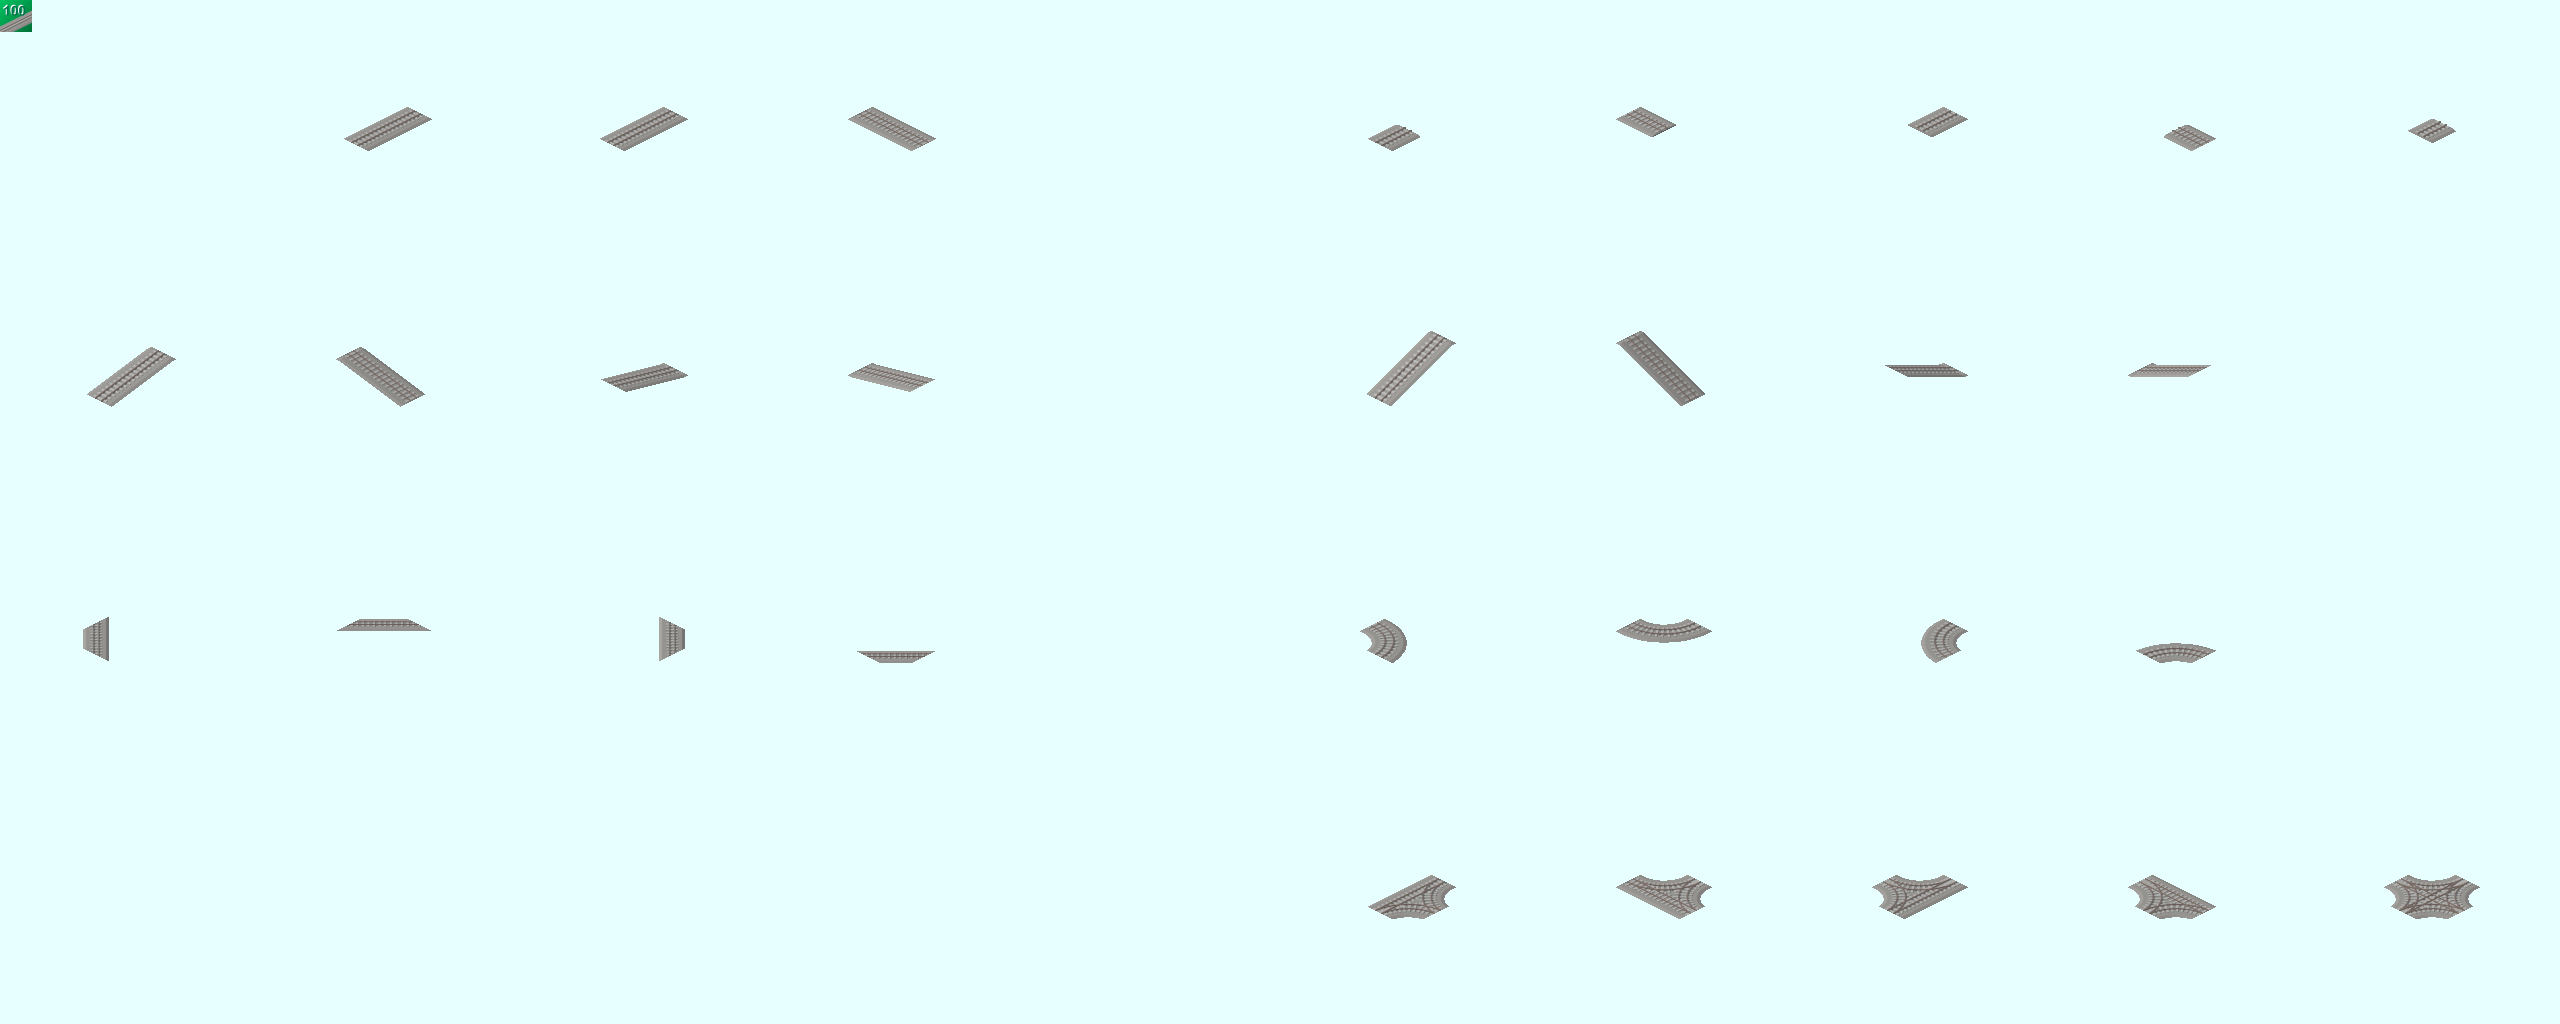
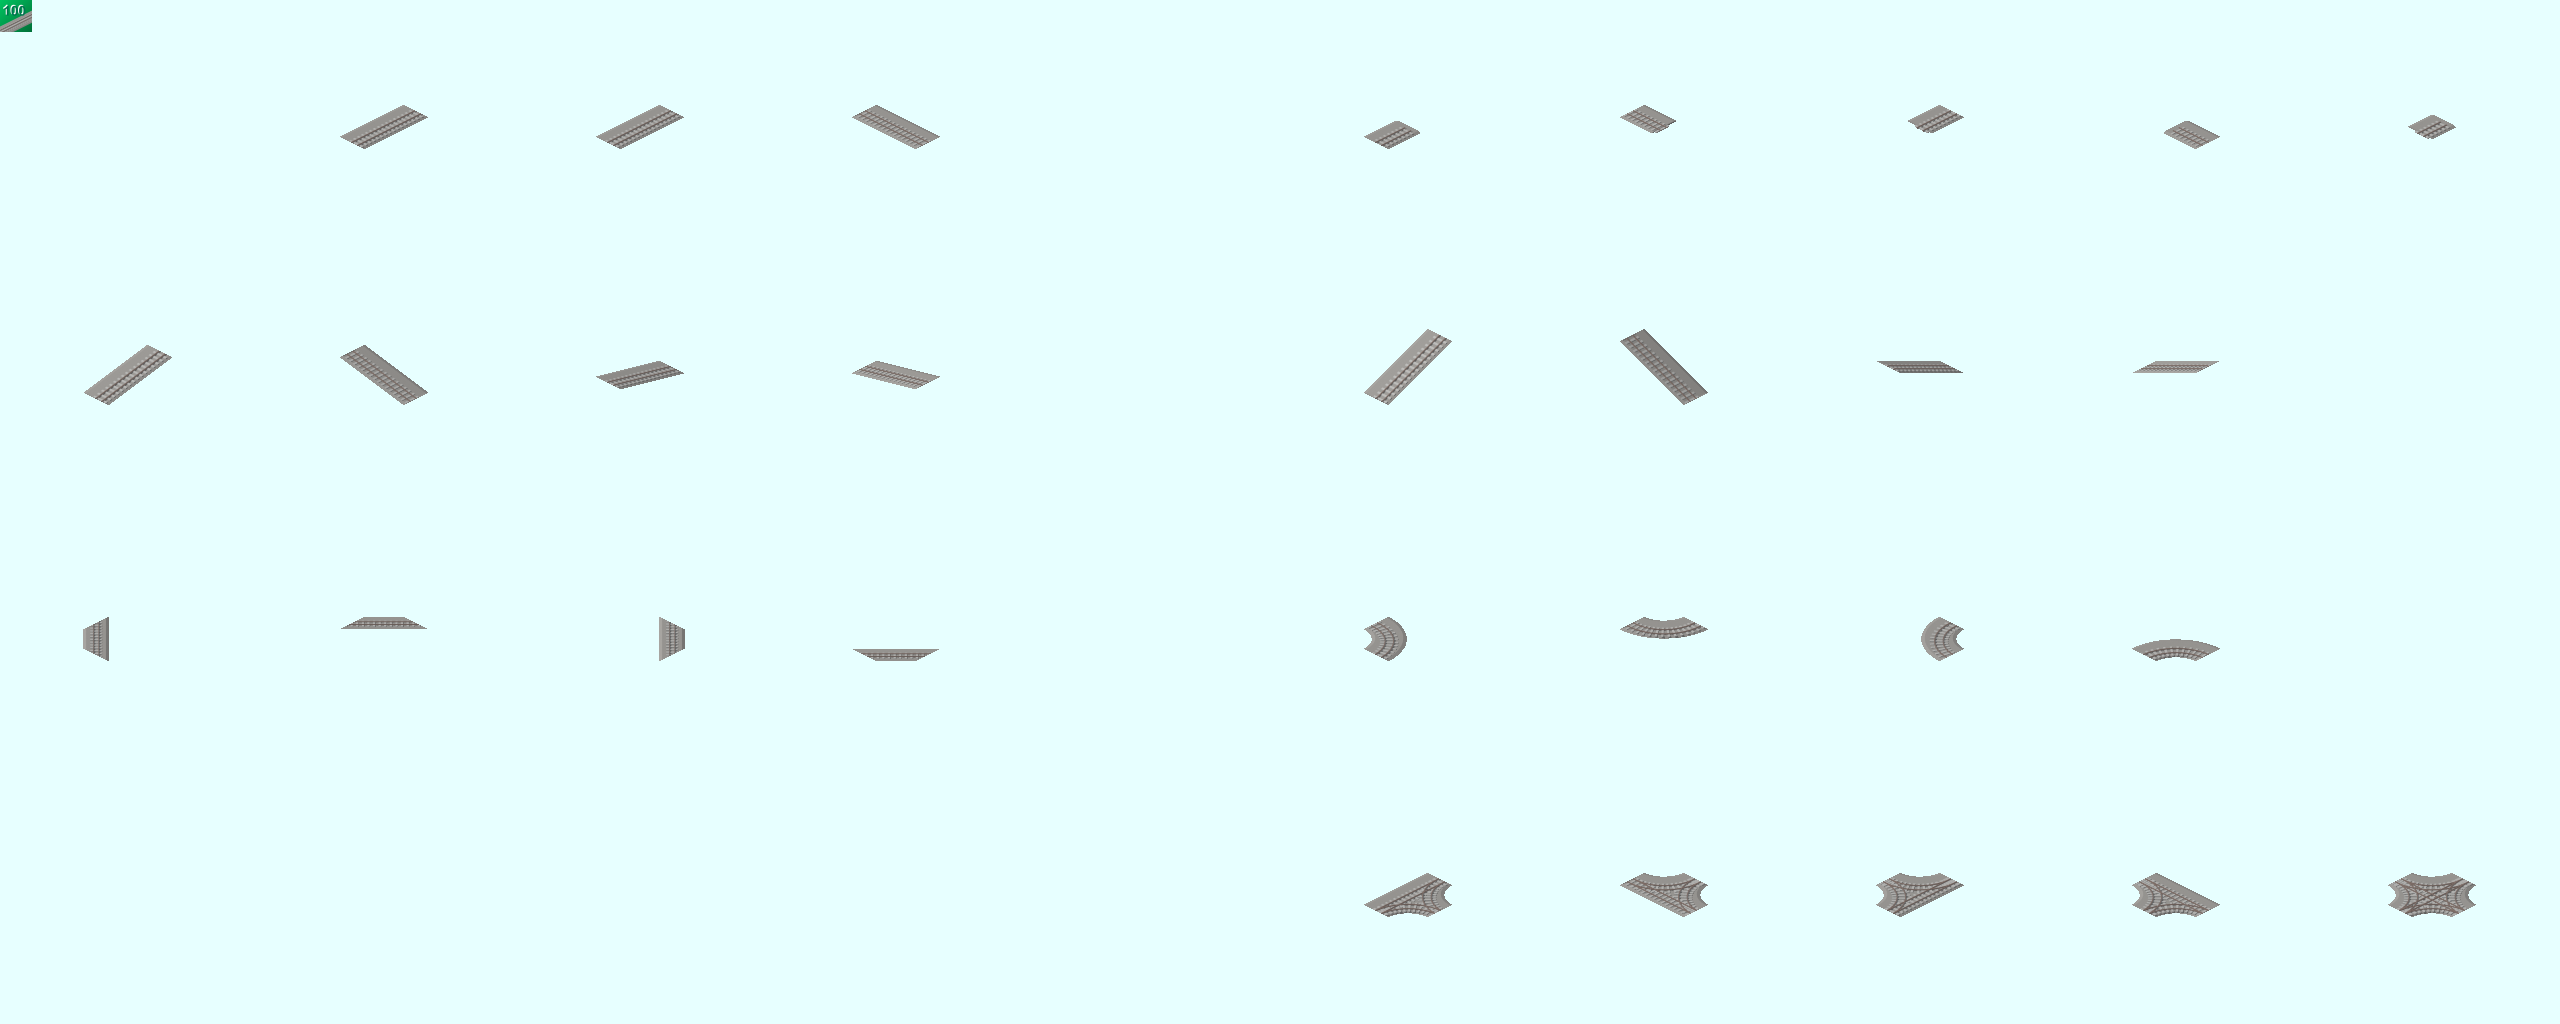
blender-poc: keep new-position track ballast on the ground, drop only rails
Rail_100 and iss keep the ballast at ground level and only the rails sit
4px lower; vertical diagonals stay centred. Dropping the whole track left
a ballast step at vertical diagonal joints. Render the ballast at the old
position and move only rails and sleepers 4px down (2px on horizontal
diagonals).

diff --git a/addons/blender-poc/blender/render.py b/addons/blender-poc/blender/render.py
@@ -281,9 +281,10 @@ DIAG_RAIL = 2 / math.sqrt(10)
 DIAG_BALLAST = 1 / math.sqrt(2)
 
 
-def build_track(paths, slope=None, clip=True, rail_scale=1.0, ballast_scale=1.0):
+def build_track(paths, slope=None, clip=True, rail_scale=1.0, ballast_scale=1.0, rail_drop=0):
     """paths の線路を作り、タイルの外を切り落とし、slope(x,y)->z で傾ける。
-    rail_scale / ballast_scale はレール・まくらぎ／道床の横幅の倍率。"""
+    rail_scale / ballast_scale はレール・まくらぎ／道床の横幅の倍率。
+    rail_drop はレールとまくらぎだけを画面で何 px 下に描くか（道床は動かさない）。"""
     m_ballast = material("ballast", (0.42, 0.40, 0.37))
     m_sleeper = material("sleeper", (0.62, 0.61, 0.58))
     m_rail = material("rail", (0.50, 0.36, 0.30), rough=0.35, metal=0.6)
@@ -303,7 +304,17 @@ def build_track(paths, slope=None, clip=True, rail_scale=1.0, ballast_scale=1.0)
         obs.append(mesh_object(f"railL{i}", *sweep(path, rail_l), m_rail))
         obs.append(mesh_object(f"railR{i}", *sweep(path, rail_r), m_rail))
 
+    # 画面で rail_drop px 下 = 地面の上で手前（カメラ側）へ水平に動かす。高さは変えない（変えると道床に埋もれる）
+    cam = bpy.context.scene.camera
+    rot = cam.rotation_euler.to_matrix()  # matrix_world は作った直後だと更新されていない
+    up, fwd = rot @ Vector((0, 1, 0)), rot @ Vector((0, 0, -1))
+    toward = -Vector((fwd.x, fwd.y, 0)).normalized()
+    drop = toward * (rail_drop * cam.data.ortho_scale / CELL) / -toward.dot(up)
+    # 動かすのは坂を当てて切り抜く前（坂ではレールが面に沿う。切り抜きの余白より動く量が大きいので後だと端が欠ける）
     for ob in obs:
+        if rail_drop and not ob.name.startswith("ballast"):
+            for v in ob.data.vertices:
+                v.co += drop
         if slope:
             apply_slope(ob, slope)
         if clip:
@@ -895,13 +906,17 @@ def make_sheet(cells, rows, cols, out):
 # ---------------------------------------------------------------- 各アドオン
 
 # 線路の描画位置。形状は同じで、画面上の上下位置だけを整数 px ずらす（正: 下へ）
-#   new: 新描画位置（道床が低い。今の pak128・iss）
-#   old: 旧描画位置（道床が高い。古い pak128・SIS）
+#   new: 新描画位置（レールが低い。今の pak128・iss）
+#   old: 旧描画位置（レールが高い。古い pak128・SIS）
 # iss と SIS を比べると、どの方位でもレールが画面上で 4〜4.5px 違うだけだった
 TRACK_PROFILES = {
     "new": {"sheet": "track", "dy": 3},
     "old": {"sheet": "track_old", "dy": -1},
 }
+# 道床は両方とも旧の位置（地面の菱形と同じ）に描き、新はレールとまくらぎだけを下げる。
+# pak128 標準の Rail_100 も iss も、レールは新の位置だが道床は地面の位置にあり、斜めの絵もタイルの中心のまま。
+# 道床まで下げると、画面で縦向きの斜め（sw・ne）は辺で直線と同じ点を通る位置が無く、道床の角に段が出た
+BALLAST_DY = -1
 
 
 def track_sheet(profile="new"):
@@ -950,18 +965,19 @@ def track_sheet(profile="new"):
     # dat オフセット -64,-32 と対応。持ち分は地面の菱形のまま（新描画位置は絵が 4px 下だが、持ち分を 4 行下げると、
     # 手前のタイルへはみ出した 2〜4 行目を手前の地面が消し、どのつなぎ目にも草の線が出た）
     cy = GROUND_CY
-    set_anchor(128 + prof["dy"])
+    set_anchor(128 + BALLAST_DY)
+    drop = prof["dy"] - BALLAST_DY
     cells = {}
     for pos, (name, paths, slope) in jobs.items():
         clear_models()
-        if name.startswith("diag_"):
-            build_track(paths, slope, rail_scale=DIAG_RAIL, ballast_scale=DIAG_BALLAST)
-        else:
-            build_track(paths, slope)
-        # 画面で横向きの斜め（nw・se）は、絵のずれ（地面から 128+dy-GROUND_CY px）の半分だけ下げる。
+        # 画面で横向きの斜め（nw・se）のレールは、直線のレールの下げ幅の半分だけ下げる。
         # 絵を下げることはマップ上で南東へずらすことと同じで、直線は辺を横切る点が辺に沿ってずれる。
-        # 横向きの斜めは半分だけずらすと、両端で直線と同じ点を通る（縦向きの斜めにはそういう位置が無い）
-        set_anchor(GROUND_CY + (128 + prof["dy"] - GROUND_CY) // 2 if name in ("diag_nw", "diag_se") else 128 + prof["dy"])
+        # 横向きの斜めは半分だけずらすと、両端で直線と同じ点を通る（縦向きの斜めはずらしても線が動かない）
+        d = drop // 2 if name in ("diag_nw", "diag_se") else drop
+        if name.startswith("diag_"):
+            build_track(paths, slope, rail_scale=DIAG_RAIL, ballast_scale=DIAG_BALLAST, rail_drop=d)
+        else:
+            build_track(paths, slope, rail_drop=d)
         cells[pos] = render_cell(f"{prof['sheet']}_{name}", exits_of(name), slope=slope, cy=cy)
 
     # 確認用: タイル菱形そのもの（基準位置の検証に使う。シートには入れない）

diff --git a/addons/blender-poc/README.md b/addons/blender-poc/README.md
@@ -18,8 +18,8 @@ iss（Illustrator で作ったインフラアドオン）の作り方を Blender
 | `ingame/capture_check.sh` | 4種類 × 6か所を MCP で撮り、`ingame_diff.py` で比べる（ゲームを MCP ポート付きで起動しておく） |
 | `blender/special.py` | 特殊色の検査。シートに特殊色が何 px、どのセルにあるかを数える |
 | `blender/special_preview.py` | 特殊色の見え方の再現（昼・会社の色を変えたとき・夜）|
-| `src/track.dat` | 線路・新描画位置（道床が低い。今の pak128・iss）。セル配置は iss の線路と同じ |
-| `src/track_old.dat` | 線路・旧描画位置（道床が高い。古い pak128・SIS）。形は `track.dat` と同じで、名前は `bpoc_track_old` |
+| `src/track.dat` | 線路・新描画位置（レールが低い。今の pak128・iss）。セル配置は iss の線路と同じ |
+| `src/track_old.dat` | 線路・旧描画位置（レールが高い。古い pak128・SIS）。形は `track.dat` と同じで、名前は `bpoc_track_old` |
 | `src/road.dat` | 道路（歩道付き、50km/h）。幅・白線・縁石の位置は SIS の一般道 `SIS_L_RG1-1_01S` に合わせる。セル配置は線路と同じ |
 | `src/expressway.dat` | 高速道路（歩道なし、120km/h）。SIS の高速道路 `SIS_E_RG1-1_01S` に合わせる。カーブは SIS と同じく斜めの絵を使う |
 | `src/tollbooth.dat` | 料金所風の建物（駅の付属建物扱い）。屋根がタイルからはみ出す |
@@ -281,7 +281,7 @@ python <simutrans>\.agents\skills\simutrans-mcp-gui-debug\scripts\mcp_client.py 
 残る候補は、坂の十字の歩道の丸い角に囲まれた草の先端（自然な尖り）と、まっすぐな縁の1画素で、見た目には何も無い。
 
 残り: 線路も直線↔斜めのつなぎ目の下の角に、草が1〜2px 尖って入り込む（新・旧とも）。線路の描画位置は pak128 の決まり
-（新 4px 下・旧は地面と同じ）なので道路のように動かせない。斜めの道床の幅を、道路と同じく辺で直線とそろえると直る見込み
+（新はレールが 4px 下・旧は地面と同じ）なので道路のように動かせない。斜めの道床の幅を、道路と同じく辺で直線とそろえると直る見込み
 
 ### SIS・pak128 標準の道路とのつなぎ目（2026-11-12 続き）
 
@@ -308,14 +308,22 @@ python <simutrans>\.agents\skills\simutrans-mcp-gui-debug\scripts\mcp_client.py 
 
 - 斜めの道床の幅: 0.8 倍で、タイルの辺では直線より約 1.8px 広かった → 道路と同じく辺で直線とそろう 1/√2 にした（`DIAG_BALLAST`）。
   旧描画位置（絵の位置 = 地面の位置）は、これで 6 か所とも予想図との違いが 0px、形の候補も 0 になった（`docs/seam_fix_track_old_diag.png`）
-- 新描画位置は絵が地面より 4px 下にある。道路のように持ち分も 4 行下げると、手前のタイルへはみ出した 2〜4 行目を手前の地面が消し、
-  直線どうしを含むすべての継ぎ目に草の線が出た（ゲームで確認）。はみ出しが消えずに残るのは 1 行まで（道路の 1px はこれで成り立つ）。
-  そのため新描画位置の持ち分は地面の菱形のままにした
-- 新描画位置の考え方: 絵を地面より 4px 下に描くことは、マップ上で線路全体を南東へ 0.625（タイル1辺 10）ずらすことと同じ。
-  直線はタイルの辺を横切る点が辺に沿って 0.625 ずれる。画面で横向きの斜め（nw・se）は、そのずれの半分（2px）だけ下げると、
-  両端で直線と同じ点を通る（`track_sheet` の `set_anchor`）。これで横向きの斜め↔直線の角の尖りは消えた（形の候補も消えた）
-- 残り: 画面で縦向きの斜め（sw・ne）↔直線の角の内側に、草が 1〜2px 尖って入る。縦向きの斜めは、両端の辺で直線と同じ点を通る
-  位置が無い（片方に合わせるともう片方が 2 倍ずれる。両方に合わせると斜めの線路がタイルごとに 8px ジグザグになる）。
-  斜めの端だけ辺に直角にする案（どの隣でも辺の近くの絵が同じになる）も試したが、斜めの道床がタイルごとに大きく波打ったのでやめた。
-  pak128 標準の Rail_100（同じ新描画位置）も同じ仕組み。旧描画位置（絵 = 地面の位置）にはこの問題は無い
+- 新描画位置で絵を丸ごと地面より 4px 下げると、画面で縦向きの斜め（sw・ne）↔直線の角に道床の段と草の尖りが残った。
+  絵を下げることはマップ上で線路全体を南東へずらすことと同じで、直線は辺を横切る点が辺に沿ってずれるが、
+  縦向きの斜めは両端の辺でそのずれに合わせられる位置が無い（持ち分も 4 行下げると、手前のタイルへはみ出した 2〜4 行目を
+  手前の地面が消し、すべての継ぎ目に草の線が出た。はみ出しが消えずに残るのは 1 行まで）
+- pak128 のソース（`pak128/infrastructure/rail_tracks/rail_100_tracks.png`）と iss の元絵（`iss/src/way/rail/`）を測った
+  （`docs/rail100_cells.png`。赤は地面の菱形）:
+  - 直線のレールの位置は、Rail_100・iss・このアドオンの新の三つで同じ（直線を横切る明るさの断面で、レール上面の明るい行が同じ）
+  - Rail_100 の道床は地面の位置からほぼ動いていない（直線で 1px ほど下）。縦向きの斜めもタイルの中心（辺の中点の真上）に描いている。
+    iss も、レール・まくらぎの層（`standard_fix.png`・`standard_slab.png`）の斜めはタイルの中心
+  - つまり「新描画位置」でずれているのはレールだけで、道床は地面の位置。このアドオンは道床まで 4px 下げていたのが違いだった
+- 直し方（`render.py` の `BALLAST_DY`・`build_track(rail_drop=)`）: 新でも道床は旧と同じ地面の位置に描き、
+  レールとまくらぎだけを画面で 4px 下に描く（形を地面の上で手前へ水平に動かす。高さを変えると道床に埋もれる）。
+  横向きの斜めのレールは半分の 2px。道床のつなぎ目は旧と同じになり、縦向き・横向きの斜めとも角の段・草の尖りは消えた
+  （`docs/seam_fix_track_vdiag.png`）。レールは高さがあるぶん、辺を横切る点のずれは 1〜2px で、角で目立つ段にはならない
+- ゲーム（`capture_check.sh`）: 新・旧とも 6 か所すべて、ゲームと予想図の違いは 0px。新に残る形の候補 6 点は
+  行き止まりの端の角（自然な尖り）で、つなぎ目ではない
+- pak128 標準 Rail_100 とのつなぎ目（`ingame/seam.nut`・`sis_check.sh BASES="new:120"`）: レールは段なくつながる
+  （`docs/seam_new_rail100_ns.png`）。道床は Rail_100 の方が広く砂利模様なので、もともと形はそろわない
 - `ingame_diff.py` に `INGAME_LOCATE=x,y`（位置合わせを指定）を足した。線路の模様のくり返しで、道に沿ってずれた所で合うことがあるため
